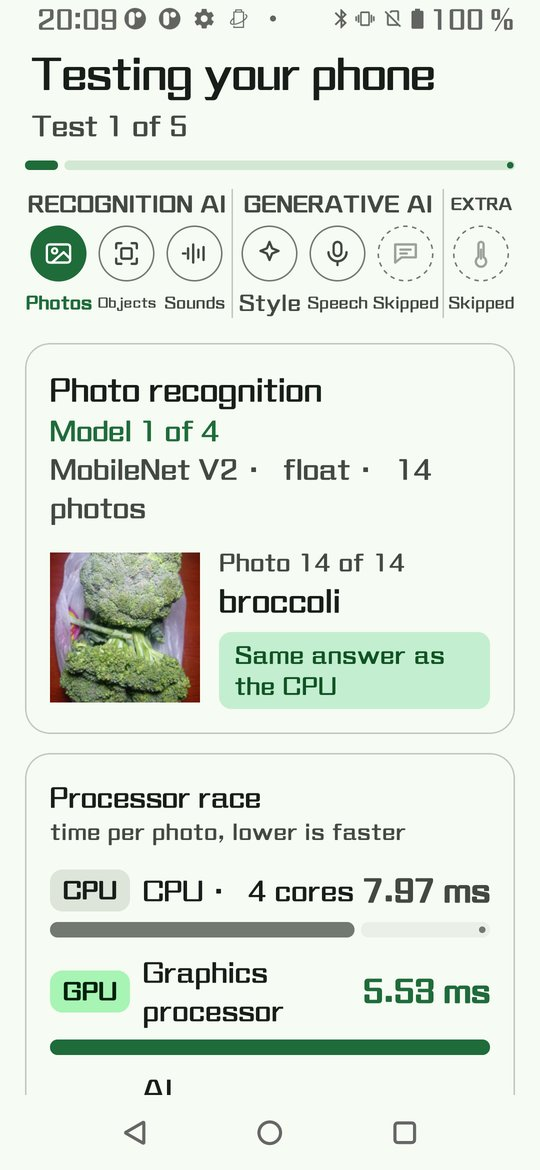
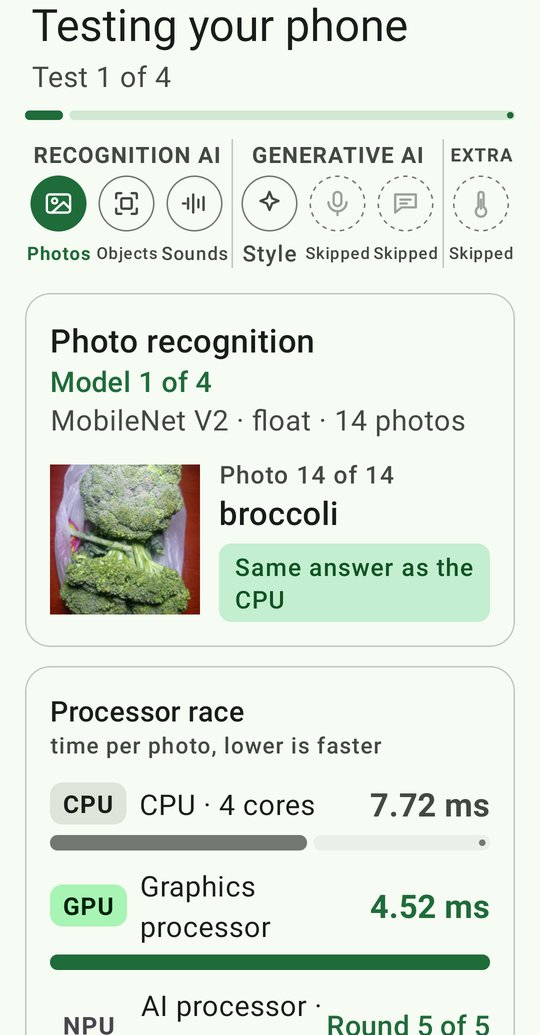
AI Capability Check: 0.3.18 screenshots (Roboto, summed score) on the app page
Six screenshots from simplicity-io/studio assets/ai-capability-check/screenshots/phone-en-0.3.18
(1080x2070 PNG converted to 540px JPEG). Speech screen replaced by detection, image style and
processors compared.

Claude-Session: https://claude.ai/code/session_01KDwDSaeQk3woyTGJWVjeet

diff --git a/ai-capability-check/index.html b/ai-capability-check/index.html
@@ -111,10 +111,12 @@
 
     <h2>Screenshots</h2>
     <div class="shots">
-      <img src="../shots/acc-start.jpg" width="540" height="1170" loading="lazy" alt="The start screen: the last score on a dial, and the tests in two groups, Recognition AI and Generative AI.">
-      <img src="../shots/acc-race.jpg" width="540" height="1170" loading="lazy" alt="A photo test: the processor race compares the CPU, graphics processor and AI processor on the same photos.">
-      <img src="../shots/acc-speech.jpg" width="540" height="1170" loading="lazy" alt="Speech to text: the words appear as the phone writes them, offline.">
-      <img src="../shots/acc-result.jpg" width="540" height="1170" loading="lazy" alt="The result: the AI Capability Score with its Recognition and Generative halves and each test.">
+      <img src="../shots/acc-start.jpg" width="540" height="1035" loading="lazy" alt="The start screen: the last score on a dial, and the tests in two groups, Recognition AI and Generative AI.">
+      <img src="../shots/acc-race.jpg" width="540" height="1035" loading="lazy" alt="A photo test: the processor race compares the CPU, graphics processor and AI processor on the same photos.">
+      <img src="../shots/acc-detection.jpg" width="540" height="1035" loading="lazy" alt="Object detection: the boxes and labels the phone finds in a photo, on the CPU, graphics processor and AI processor.">
+      <img src="../shots/acc-style.jpg" width="540" height="1035" loading="lazy" alt="Image style: a photo repainted in the style of a painting, by the phone's models, offline.">
+      <img src="../shots/acc-processors.jpg" width="540" height="1035" loading="lazy" alt="Processors compared: how many times faster the CPU, graphics processor and AI processor are than the CPU, per test.">
+      <img src="../shots/acc-result.jpg" width="540" height="1035" loading="lazy" alt="The result: the AI Capability Score with its Recognition and Generative halves and each test.">
     </div>
 
     <h2>Questions</h2>
